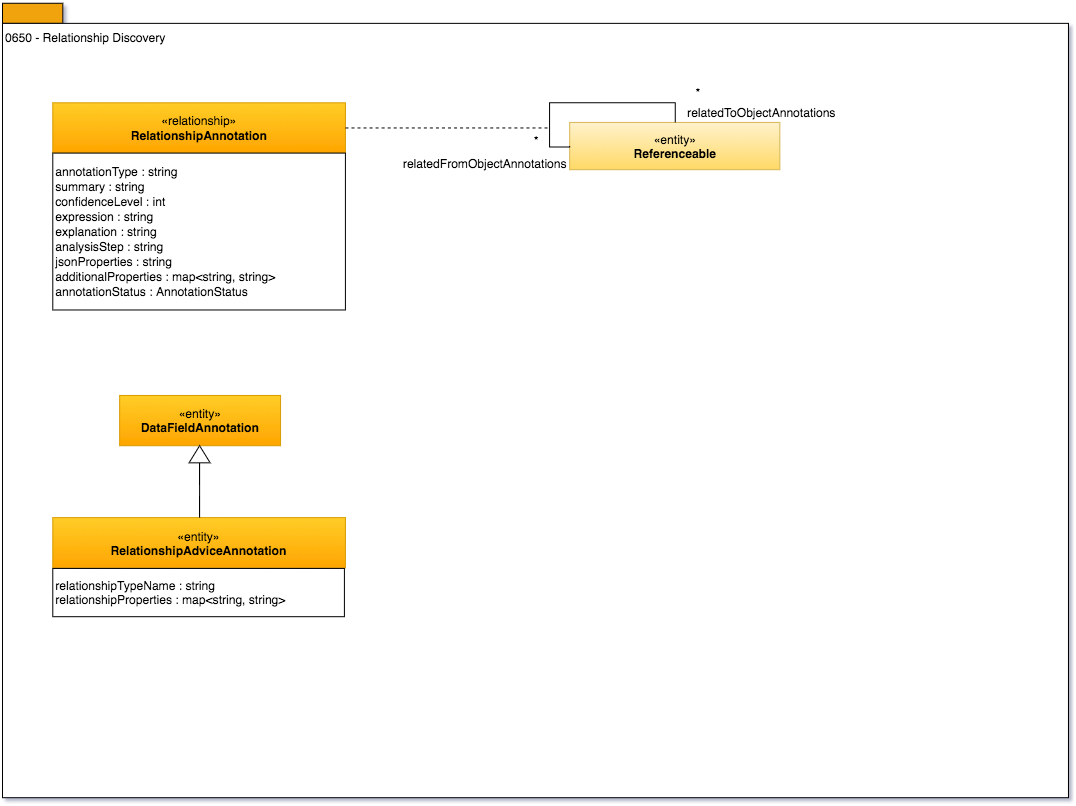
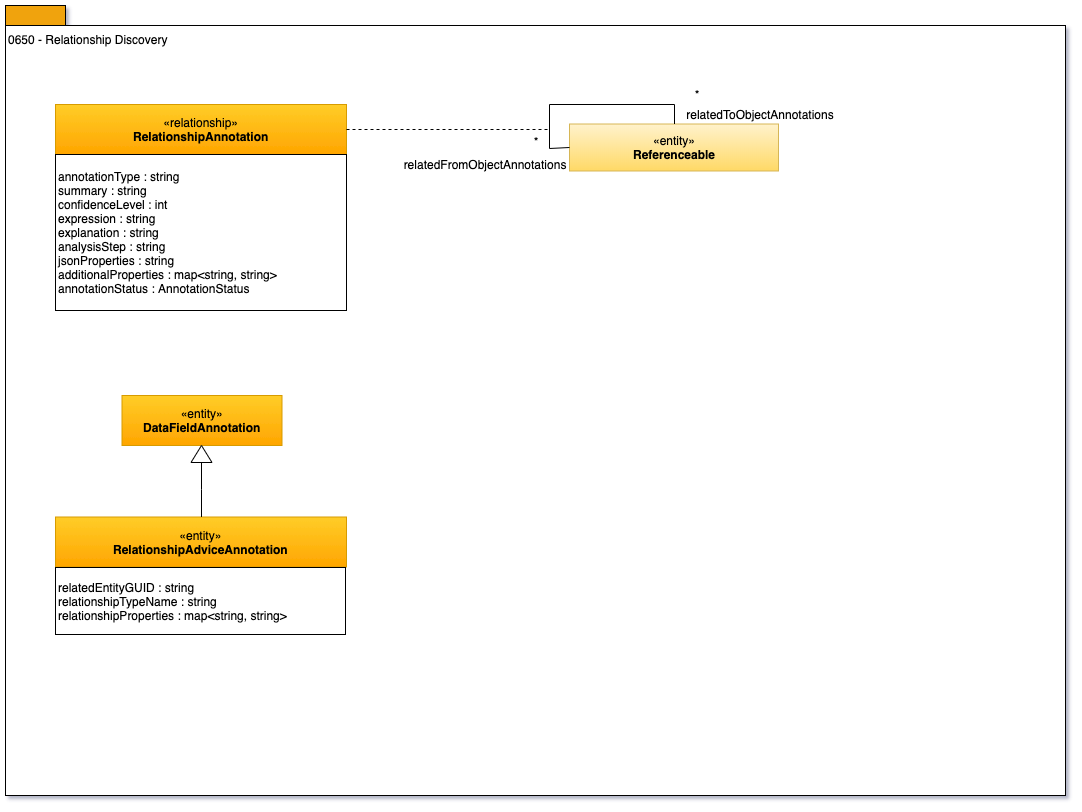
Corrections to discovery annotation types

diff --git a/open-metadata-resources/open-metadata-archives/open-metadata-types/src/main/java/org/odpi/openmetadata/opentypes/OpenMetadataTypesArchive.java b/open-metadata-resources/open-metadata-archives/open-metadata-types/src/main/java/org/odpi/openmetadata/opentypes/OpenMetadataTypesArchive.java
@@ -11,7 +11,9 @@ import org.odpi.openmetadata.repositoryservices.connectors.stores.metadatacollec
 import org.odpi.openmetadata.repositoryservices.ffdc.OMRSErrorCode;
 import org.odpi.openmetadata.repositoryservices.ffdc.exception.OMRSLogicErrorException;
 
+import java.util.ArrayList;
 import java.util.Date;
+import java.util.List;
 
 /**
  * OpenMetadataTypesArchive builds an open metadata archive containing all of the standard open metadata types.
@@ -19,7 +21,7 @@ import java.util.Date;
  * produce the same content.
  * <p>
  * Details of the open metadata types are documented on the wiki:
- * <a href="https://odpi.github.io/egeria/open-metadata-publication/website/open-metadata-types/">The Open Metadata Type System</a>
+ * <a href="https://egeria.odpi.org/open-metadata-publication/website/open-metadata-types/">The Open Metadata Type System</a>
  * </p>
  * <p>
  * There are 8 areas, each covering a different topic area of metadata.  The module breaks down the process of creating
@@ -35,7 +37,7 @@ public class OpenMetadataTypesArchive
     private static final String                  archiveName        = "Open Metadata Types";
     private static final String                  archiveDescription = "Standard types for open metadata repositories.";
     private static final OpenMetadataArchiveType archiveType        = OpenMetadataArchiveType.CONTENT_PACK;
-    private static final String                  archiveVersion     = "1.3";
+    private static final String                  archiveVersion     = "1.5";
     private static final String                  originatorName     = "ODPi Egeria";
     private static final String                  originatorLicense  = "Apache 2.0";
     private static final Date                    creationDate       = new Date(1516313040008L);
@@ -139,9 +141,278 @@ public class OpenMetadataTypesArchive
      */
     public void getOriginalTypes()
     {
-        // Add method calls here
+        update0602OpenDiscoveryServices();
+        update0605OpenDiscoveryAnalysisReports();
+        update0650RelationshipDiscovery();
     }
 
+
+    private void update0602OpenDiscoveryServices()
+    {
+        this.archiveBuilder.addTypeDefPatch(updateSupportedDiscoveryRelationship());
+    }
+
+
+    /**
+     * 0602 SupportedDiscoveryRelationship - replacing assetTypes with discoveryRequestTypes and
+     *      adding defaultAnalysisParameters
+     */
+    private TypeDefPatch updateSupportedDiscoveryRelationship()
+    {
+        /*
+         * Create the Patch
+         */
+        final String typeName = "SupportedDiscoveryService";
+
+        TypeDefPatch  typeDefPatch = archiveBuilder.getPatchForType(typeName);
+
+        typeDefPatch.setUpdatedBy(originatorName);
+        typeDefPatch.setUpdateTime(creationDate);
+
+        /*
+         * Build the attributes
+         */
+        List<TypeDefAttribute> properties = new ArrayList<>();
+        TypeDefAttribute       property;
+
+        final String attribute1Name = "assetTypes";
+        final String attribute1Description = "Deprecated property.";
+        final String attribute1DescriptionGUID = null;
+        final String attribute2Name = "discoveryRequestTypes";
+        final String attribute2Description = "Types of discovery request that links to the discovery service.";
+        final String attribute2DescriptionGUID = null;
+        final String attribute3Name = "defaultAnalysisParameters";
+        final String attribute3Description = "Map of parameter name to value that is passed to the discovery service by default.";
+        final String attribute3DescriptionGUID = null;
+
+        property = archiveHelper.getArrayStringTypeDefAttribute(attribute1Name,
+                                                                attribute1Description,
+                                                                attribute1DescriptionGUID);
+        property.setReplacedByAttribute(attribute2Name);
+        property.setAttributeStatus(TypeDefAttributeStatus.DEPRECATED_ATTRIBUTE);
+        properties.add(property);
+        property = archiveHelper.getArrayStringTypeDefAttribute(attribute2Name,
+                                                                attribute2Description,
+                                                                attribute2DescriptionGUID);
+        properties.add(property);
+        property = archiveHelper.getMapStringStringTypeDefAttribute(attribute3Name,
+                                                                    attribute3Description,
+                                                                    attribute3DescriptionGUID);
+        properties.add(property);
+
+        typeDefPatch.setPropertyDefinitions(properties);
+
+        return typeDefPatch;
+    }
+
+
+    private void update0605OpenDiscoveryAnalysisReports()
+    {
+        this.archiveBuilder.addEnumDef(getDiscoveryServiceRequestStatusEnum());
+        this.archiveBuilder.addTypeDefPatch(updateOpenDiscoveryAnalysisReportEntity());
+    }
+
+    private EnumDef getDiscoveryServiceRequestStatusEnum()
+    {
+        final String guid            = "b2fdeddd-24eb-4e9c-a2a4-2693828d4a69";
+        final String name            = "DiscoveryServiceRequestStatus";
+        final String description     = "Defines the progress or completion of a requested discovery service.";
+        final String descriptionGUID = null;
+
+        EnumDef enumDef = archiveHelper.getEmptyEnumDef(guid, name, description, descriptionGUID);
+
+        ArrayList<EnumElementDef> elementDefs = new ArrayList<>();
+        EnumElementDef            elementDef;
+
+        final int    element1Ordinal         = 0;
+        final String element1Value           = "Waiting";
+        final String element1Description     = "Discovery service is waiting to execute.";
+        final String element1DescriptionGUID = null;
+
+        elementDef = archiveHelper.getEnumElementDef(element1Ordinal,
+                                                     element1Value,
+                                                     element1Description,
+                                                     element1DescriptionGUID);
+        elementDefs.add(elementDef);
+        enumDef.setDefaultValue(elementDef);
+
+        final int    element2Ordinal         = 1;
+        final String element2Value           = "Activating";
+        final String element2Description     = "Discovery service is being initialized in the discovery engine.";
+        final String element2DescriptionGUID = null;
+
+        elementDef = archiveHelper.getEnumElementDef(element2Ordinal,
+                                                     element2Value,
+                                                     element2Description,
+                                                     element2DescriptionGUID);
+        elementDefs.add(elementDef);
+
+
+        final int    element3Ordinal         = 2;
+        final String element3Value           = "InProgress";
+        final String element3Description     = "Discovery service is executing.";
+        final String element3DescriptionGUID = null;
+
+        elementDef = archiveHelper.getEnumElementDef(element3Ordinal,
+                                                     element3Value,
+                                                     element3Description,
+                                                     element3DescriptionGUID);
+        elementDefs.add(elementDef);
+
+        final int    element4Ordinal         = 3;
+        final String element4Value           = "Failed";
+        final String element4Description     = "Discovery service has failed.";
+        final String element4DescriptionGUID = null;
+
+        elementDef = archiveHelper.getEnumElementDef(element4Ordinal,
+                                                     element4Value,
+                                                     element4Description,
+                                                     element4DescriptionGUID);
+        elementDefs.add(elementDef);
+
+        final int    element5Ordinal         = 4;
+        final String element5Value           = "Completed";
+        final String element5Description     = "Discovery service has completed successfully.";
+        final String element5DescriptionGUID = null;
+
+        elementDef = archiveHelper.getEnumElementDef(element5Ordinal,
+                                                     element5Value,
+                                                     element5Description,
+                                                     element5DescriptionGUID);
+        elementDefs.add(elementDef);
+
+        final int    element6Ordinal         = 5;
+        final String element6Value           = "Other";
+        final String element6Description     = "Discovery service has a status that is not covered by this enum.";
+        final String element6DescriptionGUID = null;
+
+        elementDef = archiveHelper.getEnumElementDef(element6Ordinal,
+                                                     element6Value,
+                                                     element6Description,
+                                                     element6DescriptionGUID);
+        elementDefs.add(elementDef);
+
+        final int    element99Ordinal         = 99;
+        final String element99Value           = "Unknown";
+        final String element99Description     = "Discovery service status is unknown.";
+        final String element99DescriptionGUID = null;
+
+        elementDef = archiveHelper.getEnumElementDef(element99Ordinal,
+                                                     element99Value,
+                                                     element99Description,
+                                                     element99DescriptionGUID);
+        elementDefs.add(elementDef);
+
+        enumDef.setElementDefs(elementDefs);
+
+        return enumDef;
+    }
+
+
+    /**
+     * 0602 SupportedDiscoveryRelationship - replacing discoveryRequestStatus with discoveryServiceRequest
+     *      and discoveryRequestStep with discoveryAnalysisStep
+     */
+    private TypeDefPatch updateOpenDiscoveryAnalysisReportEntity()
+    {
+        /*
+         * Create the Patch
+         */
+        final String typeName = "OpenDiscoveryAnalysisReport";
+
+        TypeDefPatch  typeDefPatch = archiveBuilder.getPatchForType(typeName);
+
+        typeDefPatch.setUpdatedBy(originatorName);
+        typeDefPatch.setUpdateTime(creationDate);
+
+        /*
+         * Build the attributes
+         */
+        List<TypeDefAttribute> properties = new ArrayList<>();
+        TypeDefAttribute       property;
+
+        final String attribute1Name = "discoveryRequestStatus";
+        final String attribute1Description = "Deprecated property.";
+        final String attribute1DescriptionGUID = null;
+        final String attribute2Name = "discoveryServiceStatus";
+        final String attribute2Description = "The status of a requested discovery service.";
+        final String attribute2DescriptionGUID = null;
+        final String attribute3Name = "discoveryRequestStep";
+        final String attribute3Description = "Deprecated property.";
+        final String attribute3DescriptionGUID = null;
+        final String attribute4Name = "discoveryAnalysisStep";
+        final String attribute4Description = "The current processing step of a running discovery service.";
+        final String attribute4DescriptionGUID = null;
+
+        property = archiveHelper.getEnumTypeDefAttribute("DiscoveryRequestStatus",
+                                                         attribute1Name,
+                                                         attribute1Description,
+                                                         attribute1DescriptionGUID);
+        property.setReplacedByAttribute(attribute2Name);
+        property.setAttributeStatus(TypeDefAttributeStatus.DEPRECATED_ATTRIBUTE);
+        properties.add(property);
+        property = archiveHelper.getEnumTypeDefAttribute("DiscoveryServiceRequestStatus",
+                                                         attribute2Name,
+                                                         attribute2Description,
+                                                         attribute2DescriptionGUID);
+        properties.add(property);
+        property = archiveHelper.getStringTypeDefAttribute(attribute3Name,
+                                                           attribute3Description,
+                                                           attribute3DescriptionGUID);
+        property.setReplacedByAttribute(attribute4Name);
+        property.setAttributeStatus(TypeDefAttributeStatus.DEPRECATED_ATTRIBUTE);
+        properties.add(property);
+        property = archiveHelper.getStringTypeDefAttribute(attribute4Name,
+                                                           attribute4Description,
+                                                           attribute4DescriptionGUID);
+        properties.add(property);
+
+        typeDefPatch.setPropertyDefinitions(properties);
+
+        return typeDefPatch;
+    }
+
+    private void update0650RelationshipDiscovery()
+    {
+        this.archiveBuilder.addTypeDefPatch(updateRelationshipAdviceAnnotation());
+    }
+
+
+    /**
+     * 0605 Add relatedEntityGUID to RelationshipAdviceAnnotation
+     */
+    private TypeDefPatch updateRelationshipAdviceAnnotation()
+    {
+        /*
+         * Create the Patch
+         */
+        final String typeName = "RelationshipAdviceAnnotation";
+
+        TypeDefPatch  typeDefPatch = archiveBuilder.getPatchForType(typeName);
+
+        typeDefPatch.setUpdatedBy(originatorName);
+        typeDefPatch.setUpdateTime(creationDate);
+
+
+        /*
+         * Build the attributes
+         */
+        List<TypeDefAttribute> properties = new ArrayList<>();
+        TypeDefAttribute       property;
+
+        final String attribute1Name = "relatedEntityGUID";
+        final String attribute1Description = "entity that should be linked to the asset being analyzed";
+        final String attribute1DescriptionGUID = null;
+
+        property = archiveHelper.getStringTypeDefAttribute(attribute1Name,
+                                                           attribute1Description,
+                                                           attribute1DescriptionGUID);
+        properties.add(property);
+
+        typeDefPatch.setPropertyDefinitions(properties);
+
+        return typeDefPatch;
+    }
 
     /*
      * ========================================================================
